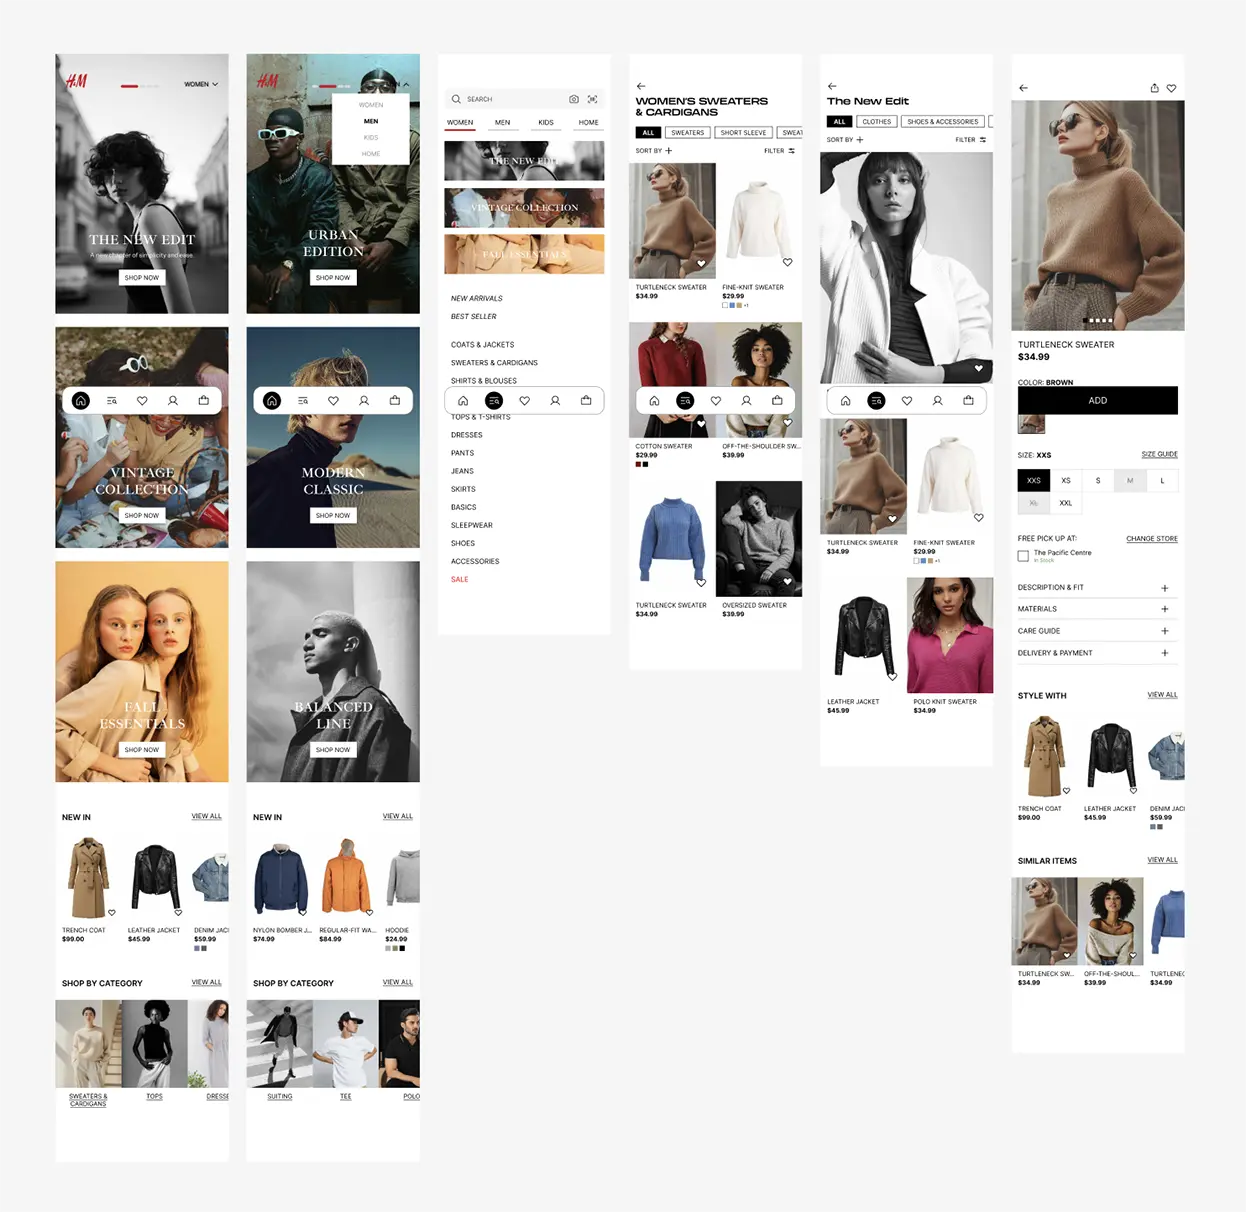
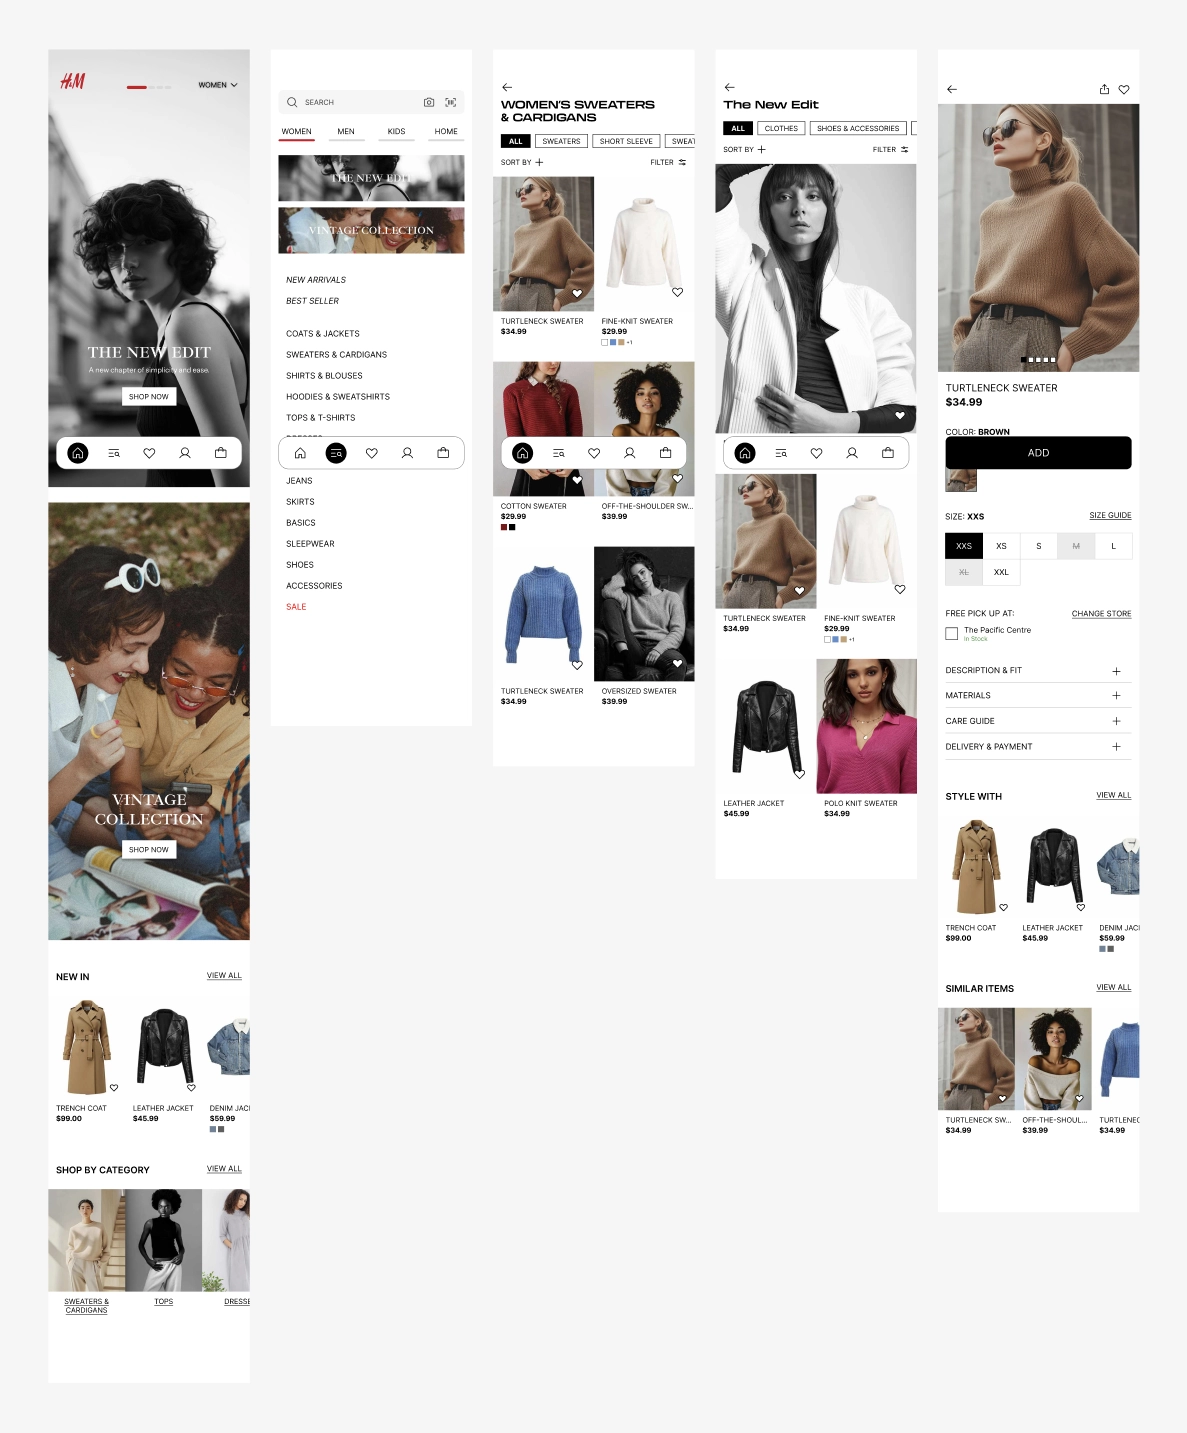
Update the redesign project

diff --git a/src/pages/works/HM.jsx b/src/pages/works/HM.jsx
@@ -16,7 +16,7 @@ import ProjectCard from '../../components/ProjectCard';
 
 import { projects } from '../../data/projects';
 
-import thumbHm from '../../assets/hm/thumb-hm.webp';
+import heroImage from '../../assets/hm/hero-image.webp';
 import competitiveAnalysis from '../../assets/hm/competitive-analysis.webp';
 import journeyMap from '../../assets/hm/journey-map.webp';
 import userFlow from '../../assets/hm/user-flow.webp';
@@ -57,9 +57,9 @@ function HM() {
                 <figure className="col-span-4 md:col-span-12 py-16 md:py-20">
                     <div className="w-full aspect-[4/3] md:aspect-[21/9] rounded-2xl overflow-hidden">
                         <img 
-                            src={thumbHm}
+                            src={heroImage}
                             alt="H&M App Redesign Overview" 
-                            className="w-full h-full object-cover object-center transition-transform duration-500 hover:scale-105" 
+                            className="w-full h-full object-cover object-center" 
                         />
                     </div>
                 </figure>
@@ -208,7 +208,7 @@ function HM() {
                                 <div style={{ paddingBottom: '200%' }}>
                                     <iframe
                                         className="absolute inset-0 w-full h-full"
-                                        src="https://embed.figma.com/proto/4mSahZ2KiFZZcaX90j0HP7/H-M-Redesign?node-id=852-4767&p=f&viewport=1438%2C104%2C0.39&scaling=scale-down&content-scaling=fixed&starting-point-node-id=852%3A4767&page-id=852%3A4766&embed-host=share"
+                                        src="https://embed.figma.com/proto/QV5iVjqPfbXkafgrNaJDJ7/H-M-Redesign--New-?node-id=3001-1597&viewport=269%2C204%2C0.71&scaling=scale-down&content-scaling=fixed&page-id=400%3A440&starting-point-node-id=3001%3A1597&embed-host=share"
                                         allowFullScreen
                                         title="H&M App Redesign Interactive Prototype"
                                     />

diff --git a/src/components/ProjectHeader.jsx b/src/components/ProjectHeader.jsx
@@ -9,7 +9,7 @@ function ProjectHeader({ titleLine1, titleLine2, subtitle, tags, tools, role, ti
                             <span key={index} className="mobile-tag">{tag}</span>
                         ))}
                     </div>
-                    <h1 className="text-4xl font-bold md:text-6xl lg:text-7xl md:pb-4">
+                    <h1 className="text-4xl font-bold md:text-6xl md:pb-4">
                         <span className="md:block">{titleLine1} </span>
                         <span className="md:block md:mt-2">{titleLine2}</span>
                     </h1>

diff --git a/src/components/ProjectCard.jsx b/src/components/ProjectCard.jsx
@@ -18,7 +18,7 @@ function ProjectCard({image, title, tags, description, onClick}) {
         className="group bg-white rounded-2xl overflow-hidden border-jb-blue border-[0.5px] hover:shadow-md transition-shadow cursor-pointer"
         >
             <div className="p-2">
-                <div className="aspect-[16/9] mb-4 md:mb-5 overflow-hidden rounded-t-xl">
+                <div className="aspect-[4/3] mb-4 md:mb-5 overflow-hidden rounded-t-xl">
                     <img
                         src={image}
                         alt={title}

diff --git a/src/pages/Home.jsx b/src/pages/Home.jsx
@@ -124,7 +124,7 @@ function Home() {
                     {/* <p className="hidden md:block text-gray-400 text-sm">View more works →</p> */}
                 </header>
 
-                <div className="grid grid-cols-1 md:grid-cols-2 gap-6 lg:gap-10">
+                <div className="grid grid-cols-1 md:grid-cols-2 gap-6 lg:gap-11">
                     {projects.map((project) => (
                         <ProjectCard key={project.id} {...project} onClick={() => {navigate(`/works/${project.slug}`);}}></ProjectCard>
                     ))}
